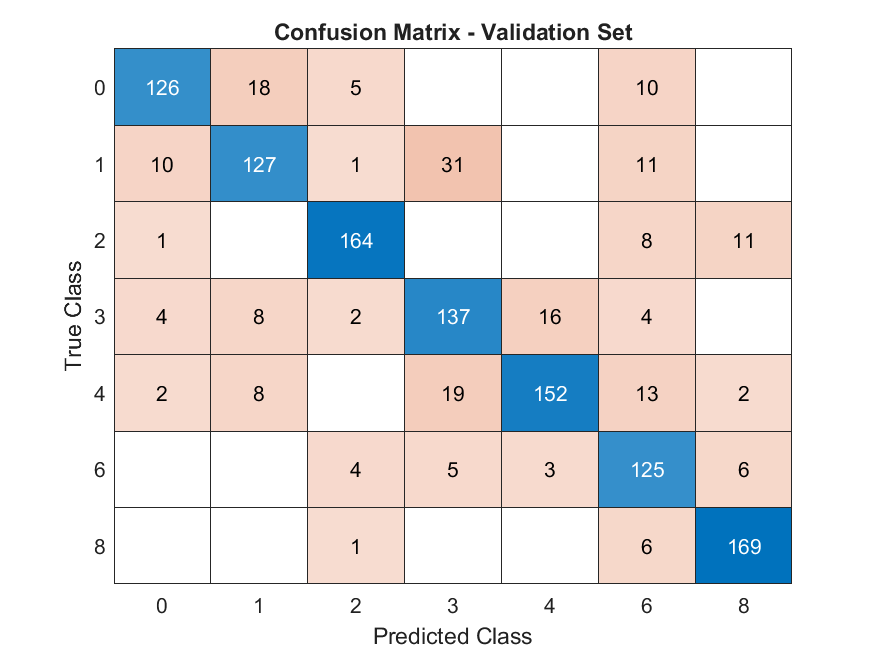
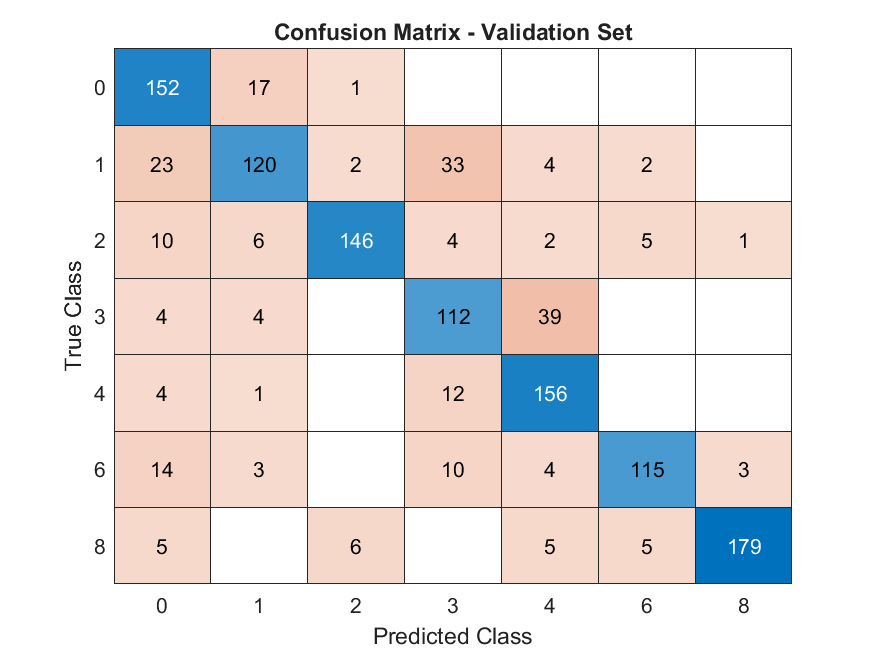
...

diff --git a/complete_cnn_svm.m b/complete_cnn_svm.m
@@ -2,6 +2,7 @@
 % Script per fault severity estimation trattando ogni segmento come "immagine"
 % con dimensioni [20000 x 3 x 1]. I file txt contengono 4 colonne, si usano le prime 3 (X, Y, Z).
 % Include anche un modulo di anomaly detection per la classe "2".
+clear; clc; close all;
 
 %% Preparazione dei dati
 % Per processare i file di training:
@@ -470,13 +471,13 @@ end
 % Infine salviamo tutto su CSV
 submission_final_val = [(1:numValidation)', prob_matrix_val, confidence_binary_val];
 submission_table_val = array2table(submission_final_val, 'VariableNames', submission_headers);
-writetable(submission_table_val, 'submission_validation.csv');
-fprintf('File submission_validation.csv generato con %d righe.\n', height(submission_table_val));
+writetable(submission_table_val, 'submission_validation_cnn_svm.csv');
+fprintf('File submission_validation_cnn_svm.csv generato con %d righe.\n', height(submission_table_val));
 
 %% Statistiche descrittive sulle probabilità massime
 % Leggi i file CSV
 testTable = readtable('submission_cnn_svm.csv');
-valTable  = readtable('submission_validation.csv');
+valTable  = readtable('submission_validation_cnn_svm.csv');
 
 % Estrai le colonne di prob_0..prob_10 (assumendo siano le colonne 2..12)
 probsTest = testTable{:, 2:12};
@@ -500,8 +501,10 @@ fprintf('TEST - Media: %.3f, Mediana: %.3f, Std: %.3f\n', ...
 fprintf('VALIDATION - Media: %.3f, Mediana: %.3f, Std: %.3f\n', ...
     meanVal, medianVal, stdVal);
 
-% Istogramma e stima di densità per il Test
+%% Istogramma e stima di densità per il Test e la Validation in un'unica figura con due subplot
 figure;
+
+% Subplot per il Test
 subplot(1,2,1);
 histogram(maxProbTest, 'Normalization','pdf');
 hold on;
@@ -513,7 +516,7 @@ ylabel('Densità di probabilità');
 legend('Istogramma','Stima densità');
 hold off;
 
-% Istogramma e stima di densità per la Validation
+% Subplot per la Validation
 subplot(1,2,2);
 histogram(maxProbVal, 'Normalization','pdf');
 hold on;
@@ -524,3 +527,70 @@ xlabel('Probabilità massima');
 ylabel('Densità di probabilità');
 legend('Istogramma','Stima densità');
 hold off;
+
+% Salva la figura come PNG
+saveas(gcf, 'distribuzione_probabilita.png');
+
+%% Calcolo delle metriche di classificazione per classe sul validation set
+% Supponiamo che YVal siano le etichette vere e YPredVal le etichette predette.
+[confMat, order] = confusionmat(YVal, YPredVal);
+numClasses = size(confMat, 1);
+
+% Inizializza vettori per le metriche
+precisionVec = zeros(numClasses,1);
+recallVec    = zeros(numClasses,1);
+f1Vec        = zeros(numClasses,1);
+
+% Calcola TP, FP, FN per ciascuna classe e le metriche corrispondenti
+for i = 1:numClasses
+    TP = confMat(i,i);                % True Positives
+    FP = sum(confMat(:,i)) - TP;        % False Positives
+    FN = sum(confMat(i,:)) - TP;        % False Negatives
+    
+    if (TP + FP) == 0
+        precision = 0;
+    else
+        precision = TP / (TP + FP);
+    end
+    
+    if (TP + FN) == 0
+        recall = 0;
+    else
+        recall = TP / (TP + FN);
+    end
+    
+    if (precision + recall) == 0
+        f1 = 0;
+    else
+        f1 = 2 * (precision * recall) / (precision + recall);
+    end
+    
+    precisionVec(i) = precision;
+    recallVec(i)    = recall;
+    f1Vec(i)        = f1;
+end
+
+% Stampa dei risultati
+fprintf('\nMetriche di classificazione sul Validation Set:\n');
+fprintf('Classe\tPrecision\tRecall\tF1-score\n');
+for i = 1:numClasses
+    fprintf('%s\t%.3f\t\t%.3f\t%.3f\n', string(order(i)), precisionVec(i), recallVec(i), f1Vec(i));
+end
+
+%% Creazione grafico a barre per le metriche di classificazione
+% Combina le metriche in una matrice, dove ogni riga corrisponde a una classe
+dataMetrics = [precisionVec, recallVec, f1Vec];
+
+% Crea il grafico a barre raggruppate
+figure;
+bar(dataMetrics);
+set(gca, 'XTickLabel', string(order));  % Imposta le etichette delle classi sull'asse X
+xlabel('Classe');
+ylabel('Valore');
+title('Metriche di Classificazione per Classe');
+legend('Precision', 'Recall', 'F1-score', 'Location', 'northoutside', 'Orientation', 'horizontal');
+grid on;
+
+% Salva il grafico come file PNG
+saveas(gcf, 'classification_metrics.png');
+fprintf('Il grafico delle metriche di classificazione è stato salvato come classification_metrics.png\n');

diff --git a/README.md b/README.md
@@ -104,97 +104,23 @@ File diagnosticFeatureData.mat creato per il Diagnostic Feature Designer.
 >> 
 ```
 
-### Output Training complete_cnn_isolation_forest.m
+### Output Training complete_cnn_svm.m
 ```
-==== Inizio complete_autoencoder_CNN_pipeline.m ====
+...
+File submission_cnn_svm.csv generato con 2400 righe.
+File submission_validation_cnn_svm.csv generato con 2439 righe.
+TEST - Media: 0.907, Mediana: 1.000, Std: 0.182
+VALIDATION - Media: 0.910, Mediana: 1.000, Std: 0.179
 
-[STEP 1] Caricamento dati HEALTHY (Pitting_degradation_level_0)...
-  [load_data_by_level] Caricamento file .txt...
-  [load_data_by_level] File filtrati: 287
-Numero di file healthy caricati: 287
-Feature extraction (healthy) completata.
-Segmentazione dei dati healthy...
-  [createSegmentsFromTableMulti] Inizio estrazione segmenti...
-  [createSegmentsFromTableMulti] Segmenti totali estratti: 287
-Segmenti healthy totali: 287
-
-[STEP 2] Addestramento autoencoder CNN sui dati healthy...
-Training on single CPU.
-|========================================================================================|
-|  Epoch  |  Iteration  |  Time Elapsed  |  Mini-batch  |  Mini-batch  |  Base Learning  |
-|         |             |   (hh:mm:ss)   |     RMSE     |     Loss     |      Rate       |
-|========================================================================================|
-|       1 |           1 |       00:00:04 |       475.98 |     113277.9 |          0.0100 |
-|       3 |          50 |       00:01:22 |        99.24 |       4924.1 |          0.0100 |
-|       6 |         100 |       00:02:42 |       131.12 |       8596.2 |          0.0100 |
-|       9 |         150 |       00:04:01 |        89.37 |       3993.8 |          0.0100 |
-|      10 |         170 |       00:04:32 |       115.49 |       6669.1 |          0.0100 |
-|========================================================================================|
-Training finished: Max epochs completed.
-Addestramento completato.
-Soglia di errore (healthy) = 0.2886
-
-[STEP 3] Caricamento dati UNHEALTHY (livelli 1..8)...
-  [load_data_by_level] Caricamento file .txt...
-  [load_data_by_level] File filtrati: 1729
-Numero di file unhealthy caricati: 1729
-Feature extraction (unhealthy) completata.
-Segmentazione dei dati unhealthy...
-  [createSegmentsFromTableMulti] Inizio estrazione segmenti...
-  [createSegmentsFromTableMulti] Segmenti totali estratti: 1729
-Segmenti unhealthy totali: 1729
-
-[STEP 4] Valutazione su dati unhealthy...
-
-[STEP 4] Mapping dei segmenti unhealthy...
-Livello medio predetto (unhealthy): 0.02
-Percentuale di segmenti con alta confidenza: 100.00%
-
-[STEP 5] Analisi dei meta-dati (Motor Speed, Torque) sui dati unhealthy...
-
-[STEP 6] Creazione file di submission (Unhealthy)...
-File submission_unhealthy.csv creato.
-
-[STEP 7] Caricamento dati TEST...
-  [load_data_by_level] Caricamento file .txt...
-  [load_data_by_level] File filtrati: 800
-Numero di file test caricati: 800
-Segmentazione dei dati test...
-  [createSegmentsFromTableMulti] Inizio estrazione segmenti...
-  [createSegmentsFromTableMulti] Segmenti totali estratti: 800
-Segmenti test totali: 800
-
-[STEP 7] Predizione e mapping sui dati test...
-Livello medio predetto (test): 0.02
-Percentuale di segmenti test con alta confidenza: 100.00%
-
-[STEP 7] Creazione file di submission per dati test...
-File submission_test.csv creato.
-
-[STEP 8] Caricamento dati VALIDATION...
-  [load_data_by_level] Caricamento file .txt...
-  [load_data_by_level] File filtrati: 813
-Numero di file validation caricati: 813
-Segmentazione dei dati validation...
-  [createSegmentsFromTableMulti] Inizio estrazione segmenti...
-  [createSegmentsFromTableMulti] Segmenti totali estratti: 813
-Segmenti validation totali: 813
-
-[STEP 8] Elaborazione dati validation e creazione file CSV...
-Livello medio predetto (validation): 0.03
-Percentuale di segmenti validation con alta confidenza: 99.88%
-File submission_validation.csv creato.
-
-[STEP 9] Tuning & Analisi: Visualizzazione di threshold alternativi e statistiche...
-Media errore healthy: 0.0408
-Std errore healthy: 0.0826
-Soglia (media + 3*std): 0.2886
-Soglia alternativa (media + 2*std): 0.2060
-Soglia alternativa (media + 4*std): 0.3712
-
-[STEP 10] Creazione file per il Diagnostic Feature Designer...
-File diagnosticFeatureData.mat creato per il Diagnostic Feature Designer.
-
-==== Fine complete_pipeline_with_analysis.m ====
+Metriche di classificazione sul Validation Set:
+Classe  Precision       Recall  F1-score
+0       0.717           0.894   0.796
+1       0.795           0.652   0.716
+2       0.942           0.839   0.888
+3       0.655           0.704   0.679
+4       0.743           0.902   0.815
+6       0.906           0.772   0.833
+8       0.978           0.895   0.935
+Il grafico delle metriche di classificazione è stato salvato come classification_metrics.png
 >> 
 ```
